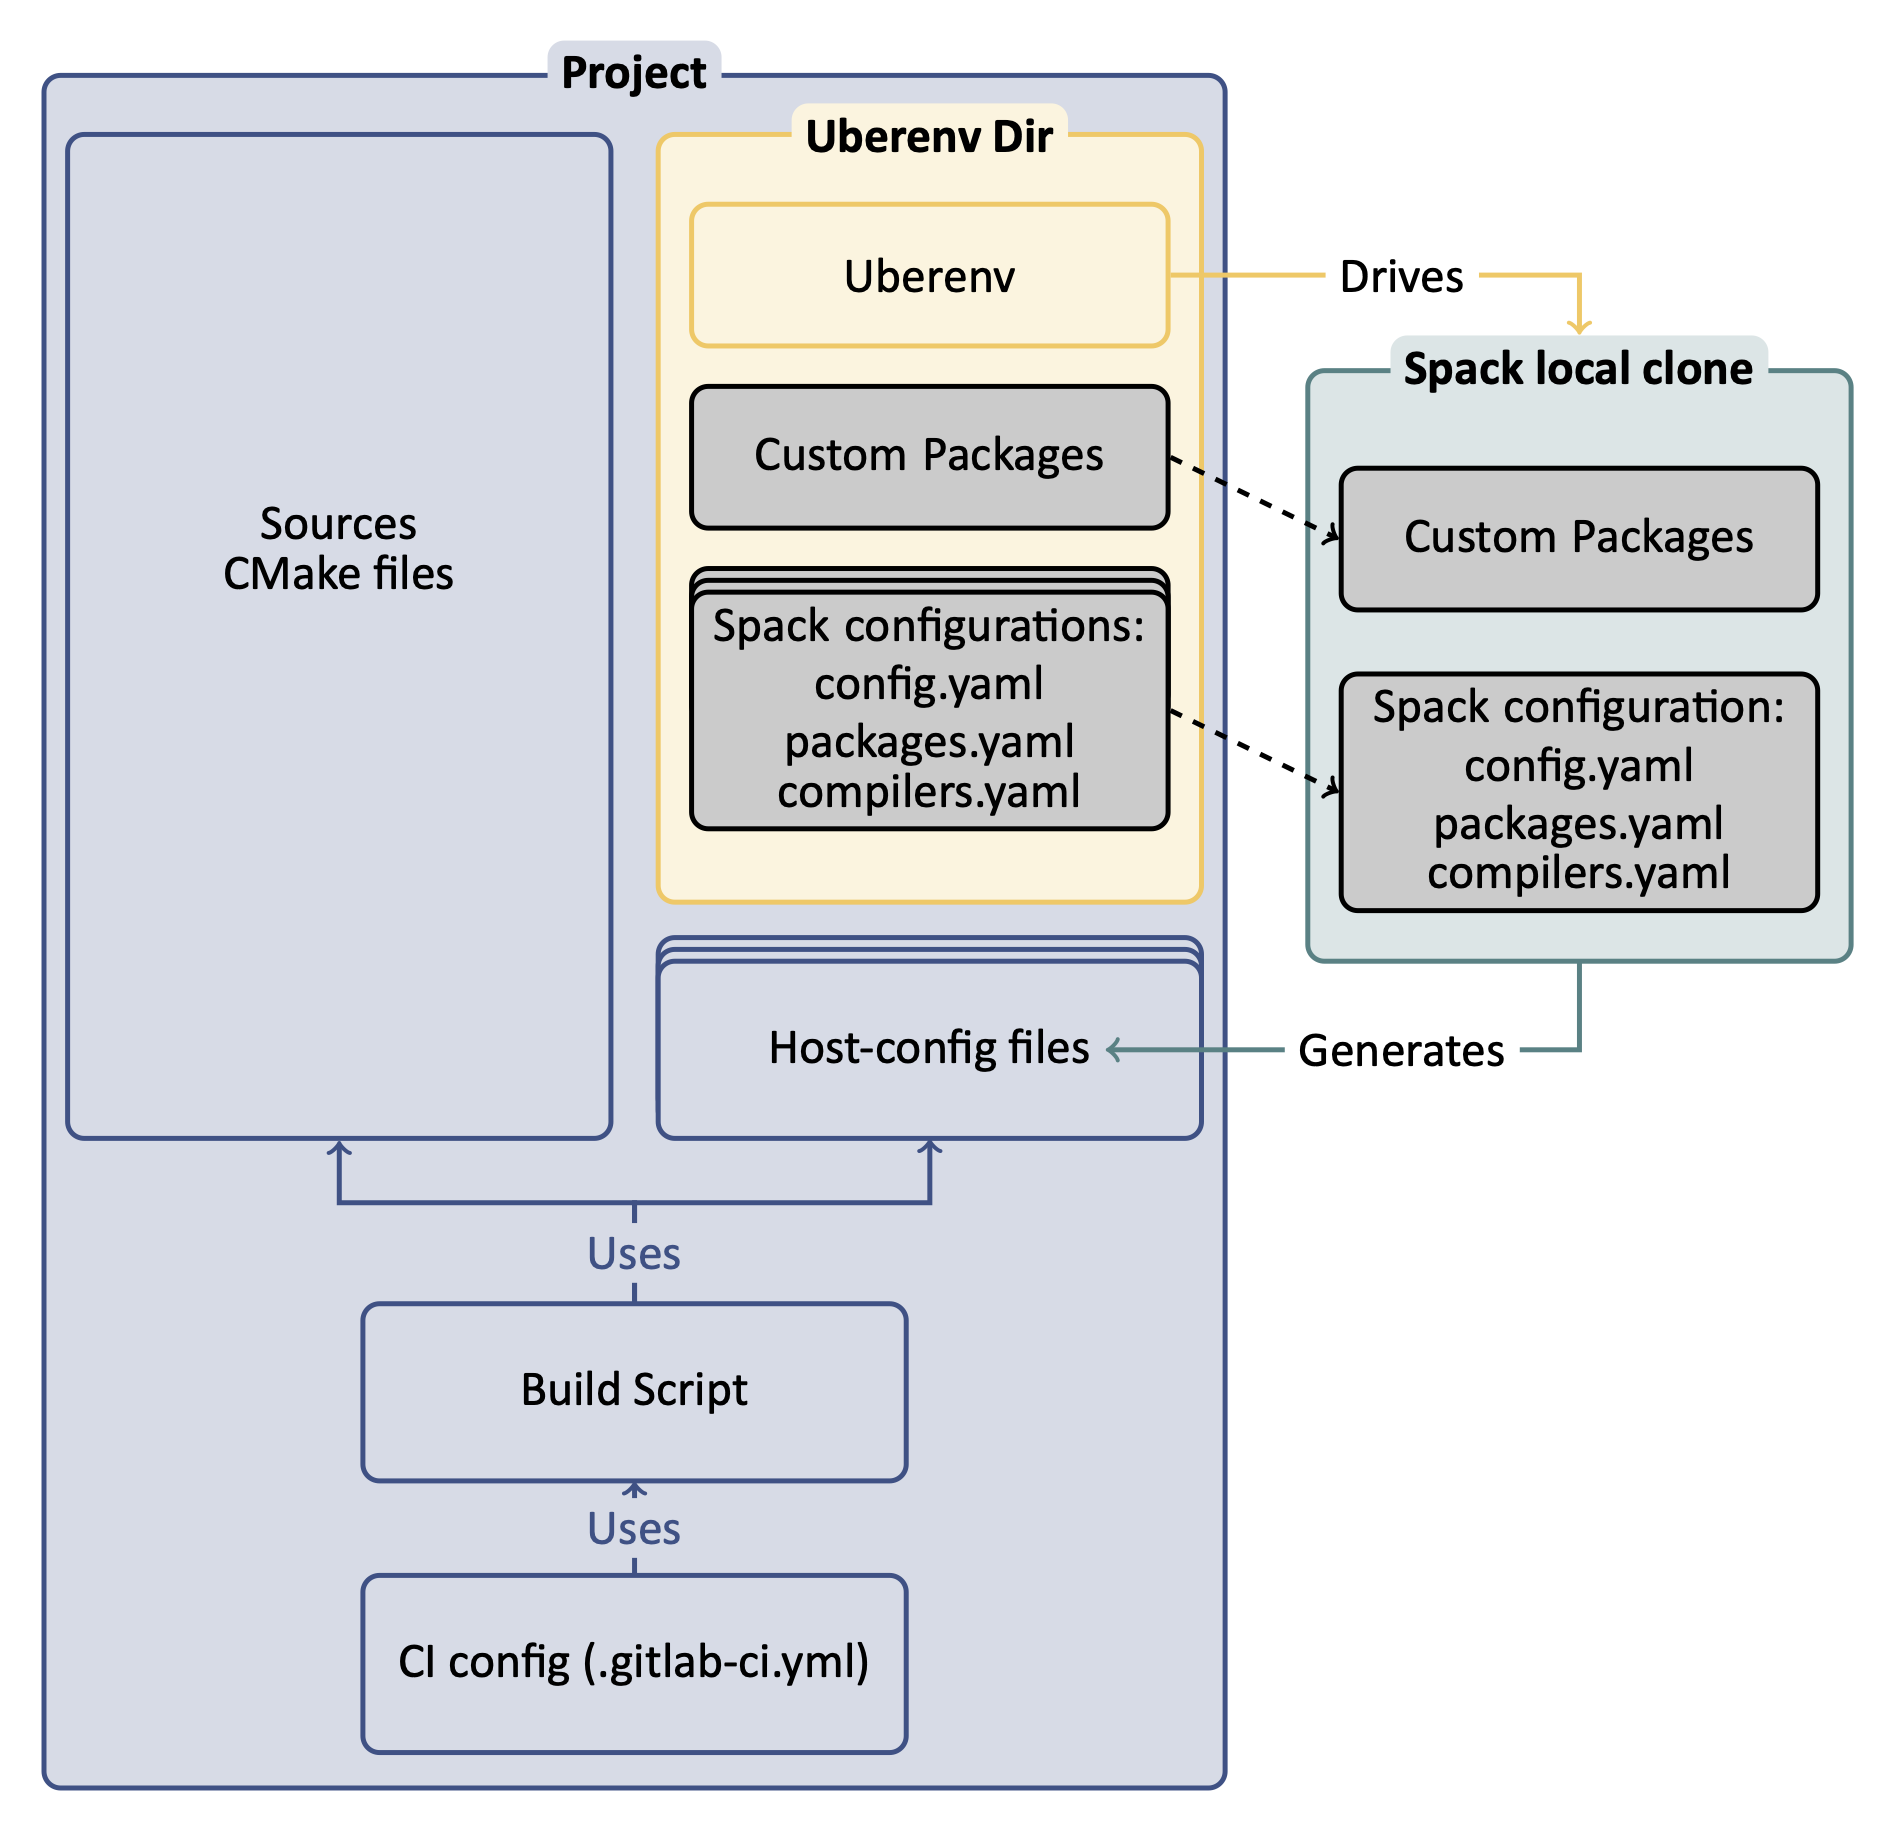
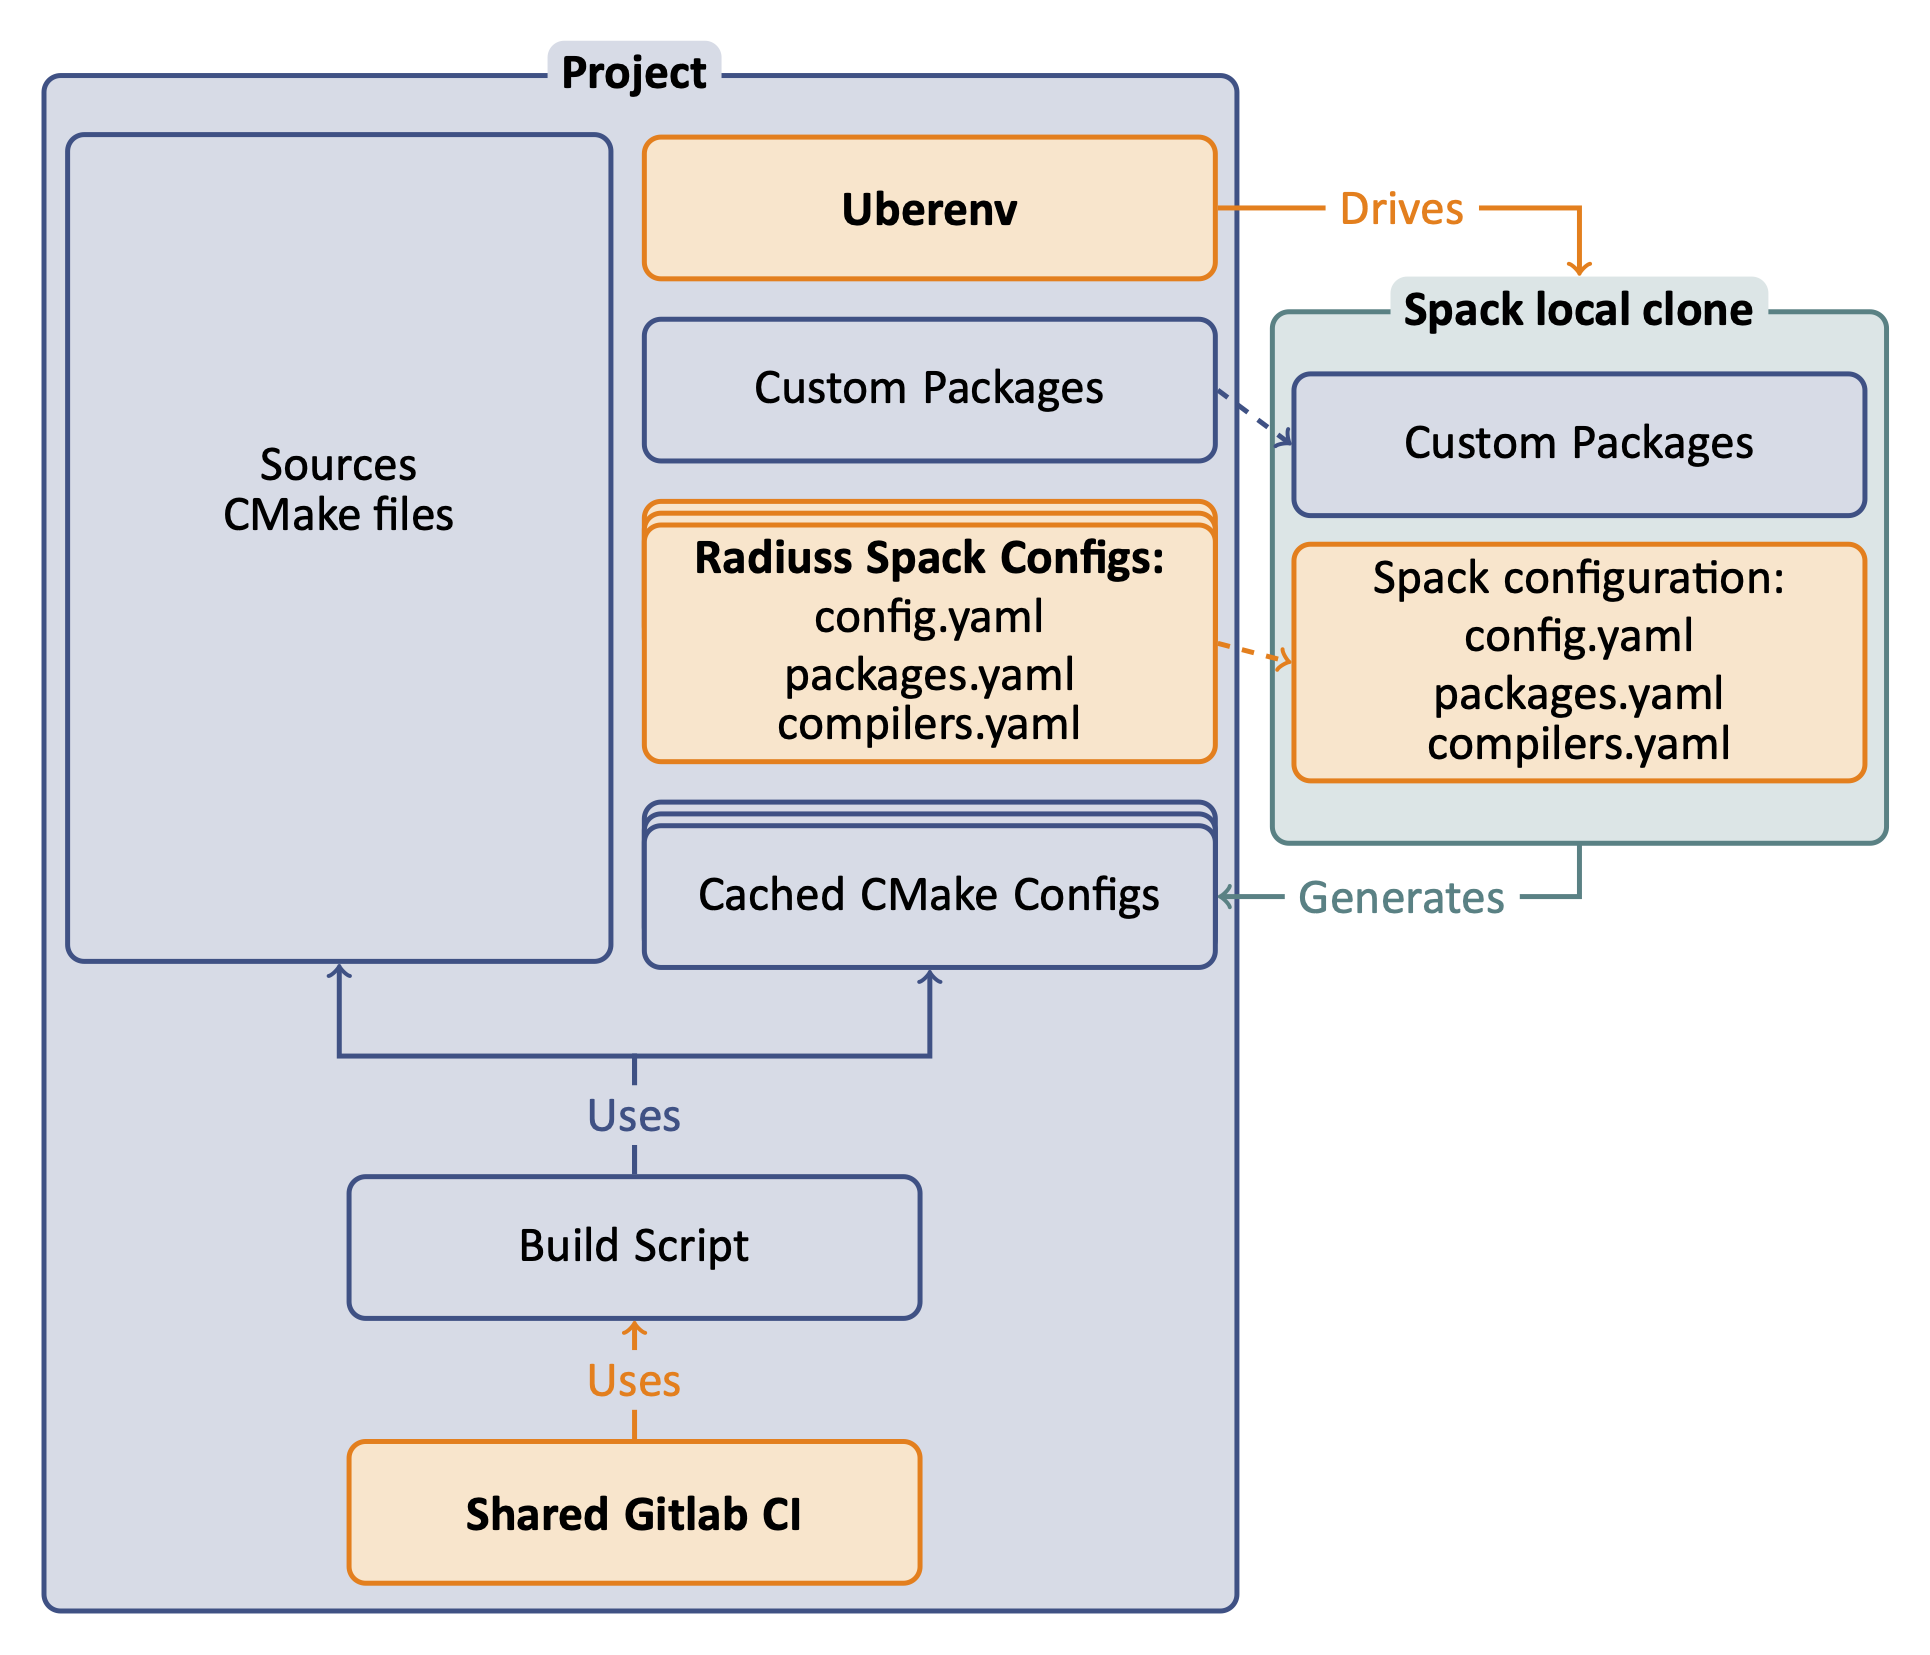
Add new images

diff --git a/docs/sphinx/user_guide/use_spack.rst b/docs/sphinx/user_guide/use_spack.rst
@@ -7,9 +7,15 @@
 
 .. _use_spack-label:
 
+
 ****************************************
 Use Spack to configure the project build
 ****************************************
+
+.. image:: images/UberenvWorkflowSpack.pdf
+   :scale: 32 %
+   :alt: Uberenv is integrated into a project to drive Spack to build the dependencies and produce a CMake cached configuration files
+   :align: center
 
 The first step in adopting RADIUSS CI infrastructure is to setup your project
 so that Spack can be used to install the dependencies and generate a
@@ -38,6 +44,7 @@ instance that will be used to build the project dependencies. We strongly
 suggest that you start with Uberenv to benefit from a reliable Spack usage in
 your CI (tried and tested) and keep the configuration script simple.
 
+
 =============
 Uberenv Guide
 =============
@@ -45,11 +52,6 @@ Uberenv Guide
 The role of Uberenv will be to manage the setup of your Spack instance and then
 drive Spack to install your project dependencies and generate the
 configuration file.
-
-.. image:: images/UberenvWorkflow.pdf
-   :scale: 32 %
-   :alt: Uberenv is integrated into a project to drive Spack to build the dependencies and produces host-config files
-   :align: center
 
 .. note::
    Uberenv will create a directory ``uberenv_libs`` containing a Spack
@@ -131,6 +133,7 @@ Getting Uberenv as a submodule
     the hostconfig stage in Umpire, CHAI, etc.).
 
 
+==================================
 Get the shared Spack configuration
 ==================================
 
@@ -155,6 +158,7 @@ welcome by the RADIUSS teams using it!
    is provided as-is, for development use.
 
 
+=========================================================
 Setup your Spack package to generate a configuration file
 =========================================================
 
@@ -175,7 +179,7 @@ This provides an easy way to build your project based on `Spack`_ configuration
 while only using CMake and a traditionnal developer workflow.
 
 CMake projects: Spack CachedCMakePackage
-----------------------------------------
+========================================
 
 The use of a CMake build system is strongly recommended to adopt RADIUSS CI
 workflow, that's because of this step. With CMake, we can generate a cache file
@@ -188,7 +192,7 @@ Once your package has been ported, stopping the Spack install after
 configuration file will have been generated already.
 
 Non-CMake projects: Custom implementation
------------------------------------------
+=========================================
 
 The only example of a non-CMake project that adopted this workflow is MFEM.
 Altough it is using a Makefile build system in its Spack Packages, MFEM is
@@ -199,4 +203,3 @@ available in CMake-based packages. You may use that as an example.
 .. _Radiuss-Spack-Configs: https://github.com/LLNL/radiuss-spack-configs
 .. _Uberenv: https://github.com/LLNL/uberenv
 .. _Spack: https://github.com/spack/spack
-

diff --git a/docs/sphinx/user_guide/build_and_test.rst b/docs/sphinx/user_guide/build_and_test.rst
@@ -7,9 +7,15 @@
 
 .. _build_and_test-label:
 
+
 *******************************************
 Build and test without breaking your habits
 *******************************************
+
+.. image:: images/UberenvWorkflowScript.pdf
+   :scale: 32 %
+   :alt: We need the project to be buildable from the CMake cached configuration file. A build script will be required for CI.
+   :align: center
 
 The second step in adopting RADIUSS CI infrastructure is to make sure your
 project can be built using the configuration file generated by Spack. Other
@@ -20,8 +26,10 @@ Spack is not longer involved at this point. But using the configuration file
 will make sure the build uses the Spack installed dependencies and the options
 specified by the Spack spec.
 
+
+==============================================
 Using configuration files to build the project
-----------------------------------------------
+==============================================
 
 The (CMake) configuration files are specific to the desired machine and
 toolchain. With CMake, the usage is as follow:
@@ -36,8 +44,10 @@ toolchain. With CMake, the usage is as follow:
 In the end, this should not be a major change in the developers habit: this is
 standard CMake procedure.
 
+
+=======================
 Writing a script for CI
------------------------
+=======================
 
 The CI expects a script that:
 
@@ -59,6 +69,8 @@ The script should therefore be calleable that way:
   definition, it has been vetted. It also ensures that this script is usable in
   interactive mode, making it easier to test.
 
+
+=========
 Debugging
 =========
 

diff --git a/docs/sphinx/user_guide/setup_ci.rst b/docs/sphinx/user_guide/setup_ci.rst
@@ -11,6 +11,11 @@
 Setup the CI using the shared template
 **************************************
 
+.. image:: images/UberenvWorkflowCI.pdf
+   :scale: 32 %
+   :alt: Once Spack and the build script setup, adopting the shared CI should be easy.
+   :align: center
+
 The third step in adopting RADIUSS CI infrastructure is to setup the CI.
 
 Once you have provided the effort to adopt the first two steps, you should be
